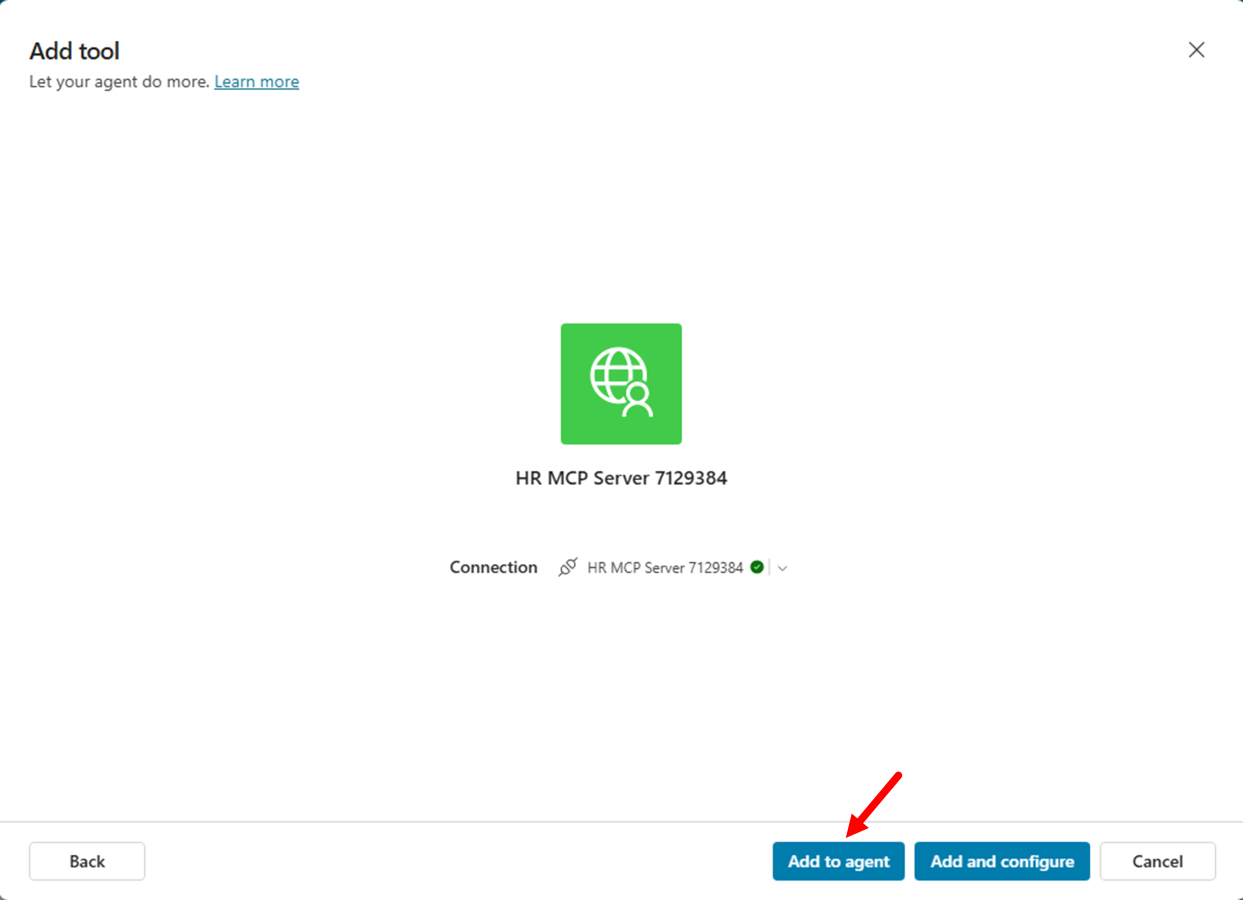
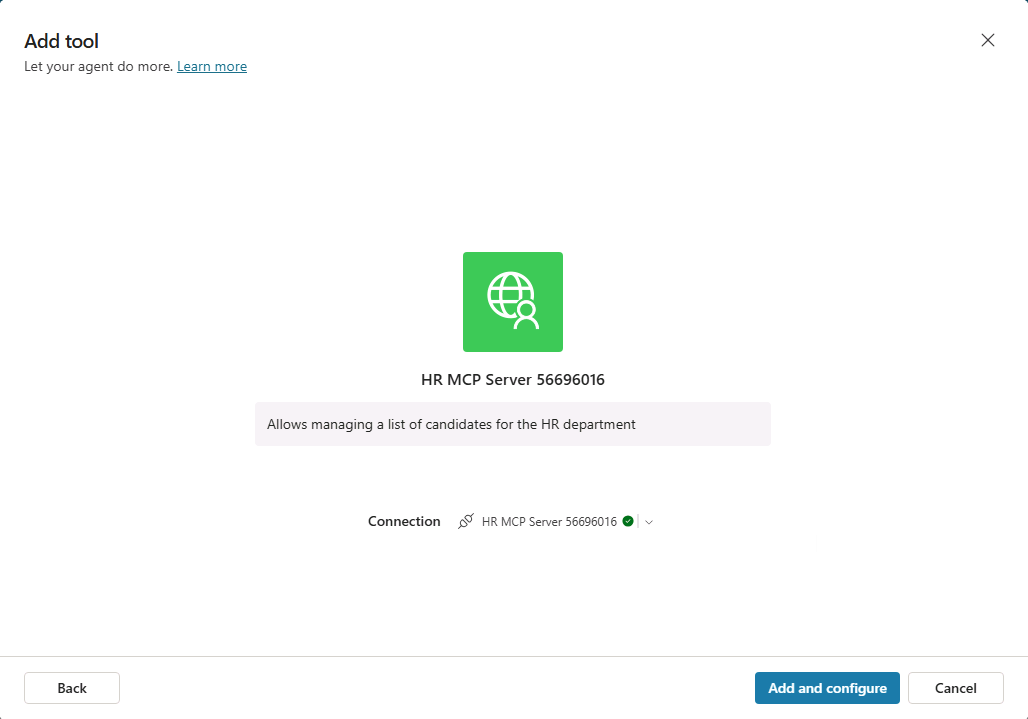
Additional fixes

diff --git a/lab/instructions/lab-mcp.md b/lab/instructions/lab-mcp.md
@@ -274,13 +274,13 @@ Select the **Not connected** option and then select **Create a new connection**.
 
 ![The option to "Create a new connection" to the MCP server.](https://microsoft.github.io/copilot-camp/assets/images/make/copilot-studio-06/mcp-integration-06.png)
 
-Once the connection is completely configured, you can select the **Add to agent** command in the dialog window and see the MCP server and tools properly configured.
+Once the connection is completely configured, you can select the **Add and configure** command in the dialog window and see the MCP server and tools properly configured.
 
-![The dialog to add the "HR MCP Server" connector as a tool to the current agent in Copilot Studio. There are buttons to "Add to agent" and to "Add and configure", as well as a button to "Cancel".](https://raw.githubusercontent.com/microsoft/ignite25-LAB565-makers-in-action-crafting-microsoft-365-copilot-agents-for-real-world/refs/heads/main/img/mcp-integration-09.png)
+![The dialog to add the "HR MCP Server" connector as a tool to the current agent in Copilot Studio. There is a button to "Add and configure", as well as a button to "Cancel".](https://raw.githubusercontent.com/microsoft/ignite25-LAB565-makers-in-action-crafting-microsoft-365-copilot-agents-for-real-world/refs/heads/main/img/mcp-integration-09.png)
 
 All the tools exposed by the MCP server are now available to your agent, as you can verify in the window displaying the MCP server details and tools.
 
-![The details about the settings and tools of the MCP server that you just registered. There is the list of tools exposed by the server.](https://microsoft.github.io/copilot-camp/assets/images/make/copilot-studio-06/mcp-integration-10.png)
+![The details about the settings and tools of the MCP server that you just registered. There is the list of tools exposed by the server.](https://raw.githubusercontent.com/microsoft/ignite25-LAB565-makers-in-action-crafting-microsoft-365-copilot-agents-for-real-world/refs/heads/main/img/mcp-integration-10.png)
 
 ### Step 2: Test the new MCP server integration
 
